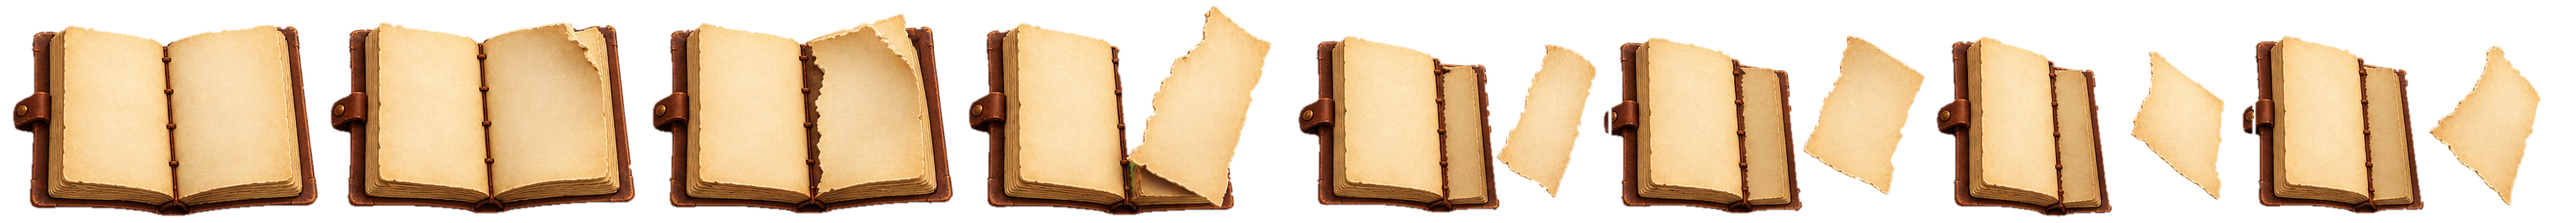
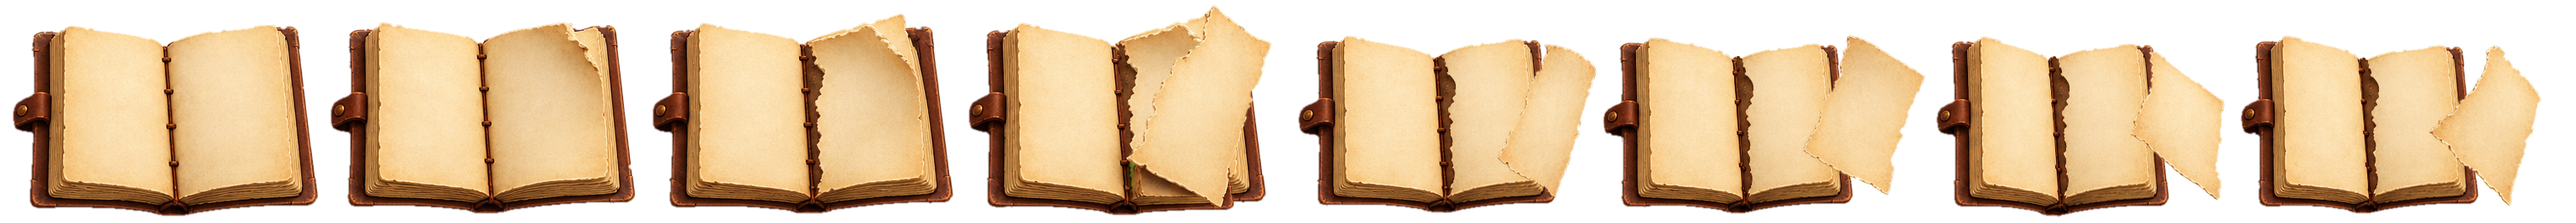
Glen's journal art: his reworked page tear (book stays put, page flies off) and the book with the right page ripped out
Rip-outs now happen on the right page to match the art (the bitter entry goes on a fresh right page, then the
real lesson on the left).

Claude-Session: https://claude.ai/code/session_016VHELo1zrDikPBbWGWgYSe

diff --git a/JOURNAL_TEXT.md b/JOURNAL_TEXT.md
@@ -25,7 +25,7 @@ Draft text for every checkpoint saying, every journal entry and every psalm line
 
 **The look:** ink appears word by word with a quiet scratch of the pen. The crossed-out words stay on the page (it's a real draft).
 
-**Rip-outs (Glen's idea, rare on purpose: twice in the whole game).** Scratch-outs fix a word ("that's not quite it"). A rip-out throws away a whole thought ("I shouldn't have written that"). David starts a bitter entry on the left page, stops, tears the page out, crumples it and tosses it into the campfire, where it curls up and burns. Then he writes the real entry. In the pause-menu Journal you can still see the **torn stub** in the binding at those two places.
+**Rip-outs (Glen's idea, rare on purpose: twice in the whole game).** Scratch-outs fix a word ("that's not quite it"). A rip-out throws away a whole thought ("I shouldn't have written that"). David turns to a fresh page and starts a bitter entry on the **right** page, stops, tears the page out (`assets/journal/journal_tear.png`), and tosses it into the campfire, where it burns (`journal_burn.png`). Then he writes the real lesson on the left page as usual. Paging back later, that spread uses `davids_journal_page_ripped-out.png`, with the torn stub on the right. In the pause-menu Journal you can still see the **torn stub** in the binding at those two places.
 - **3-2, left out:** *"Nobody even remembered me. My brothers always…"* → ripped out → the Hagar entry ("the God who sees me").
 - **6-1, Eliab's anger:** *"Eliab thinks he's so…"* → ripped out → the Joseph entry (answer with kindness). The lesson is "answer gently", and the player watches him choose it.
 
